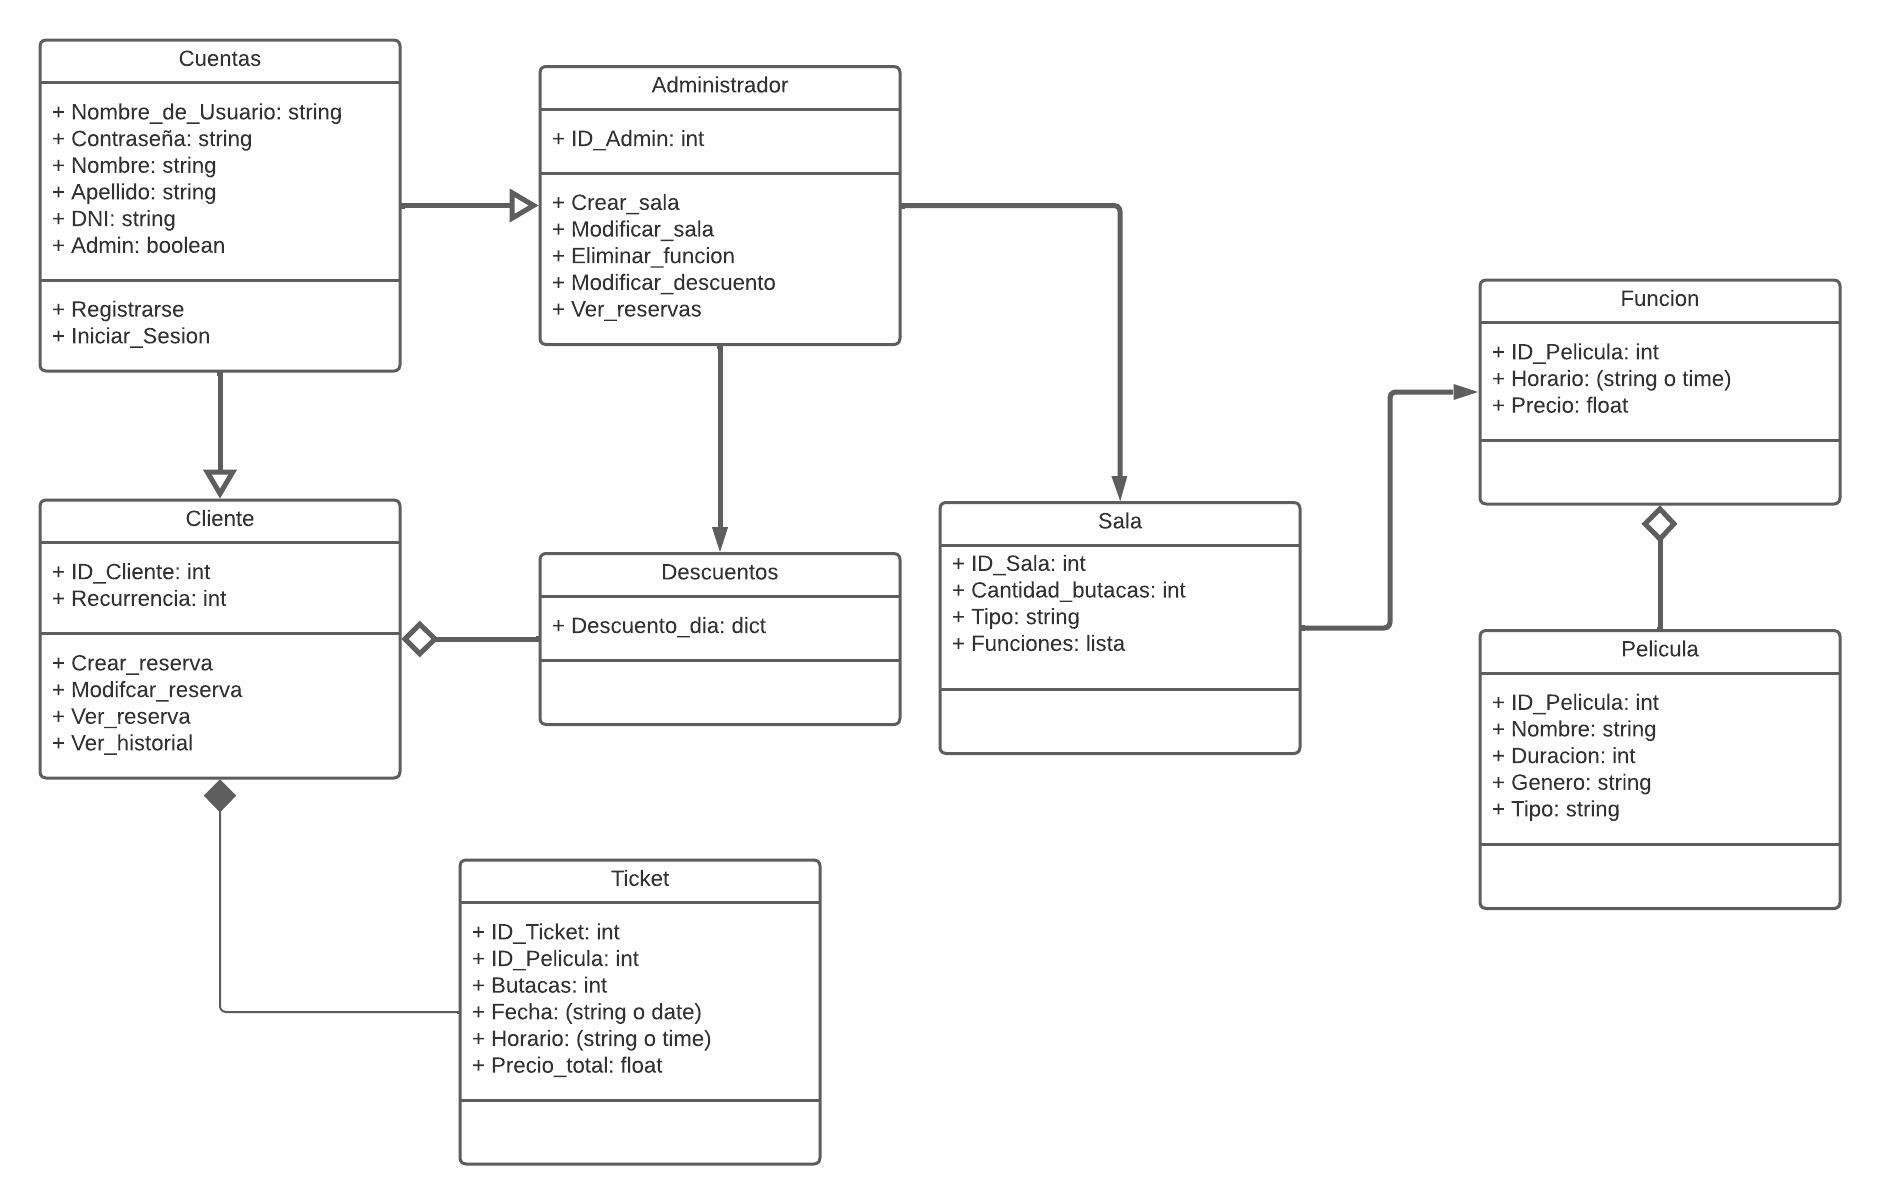
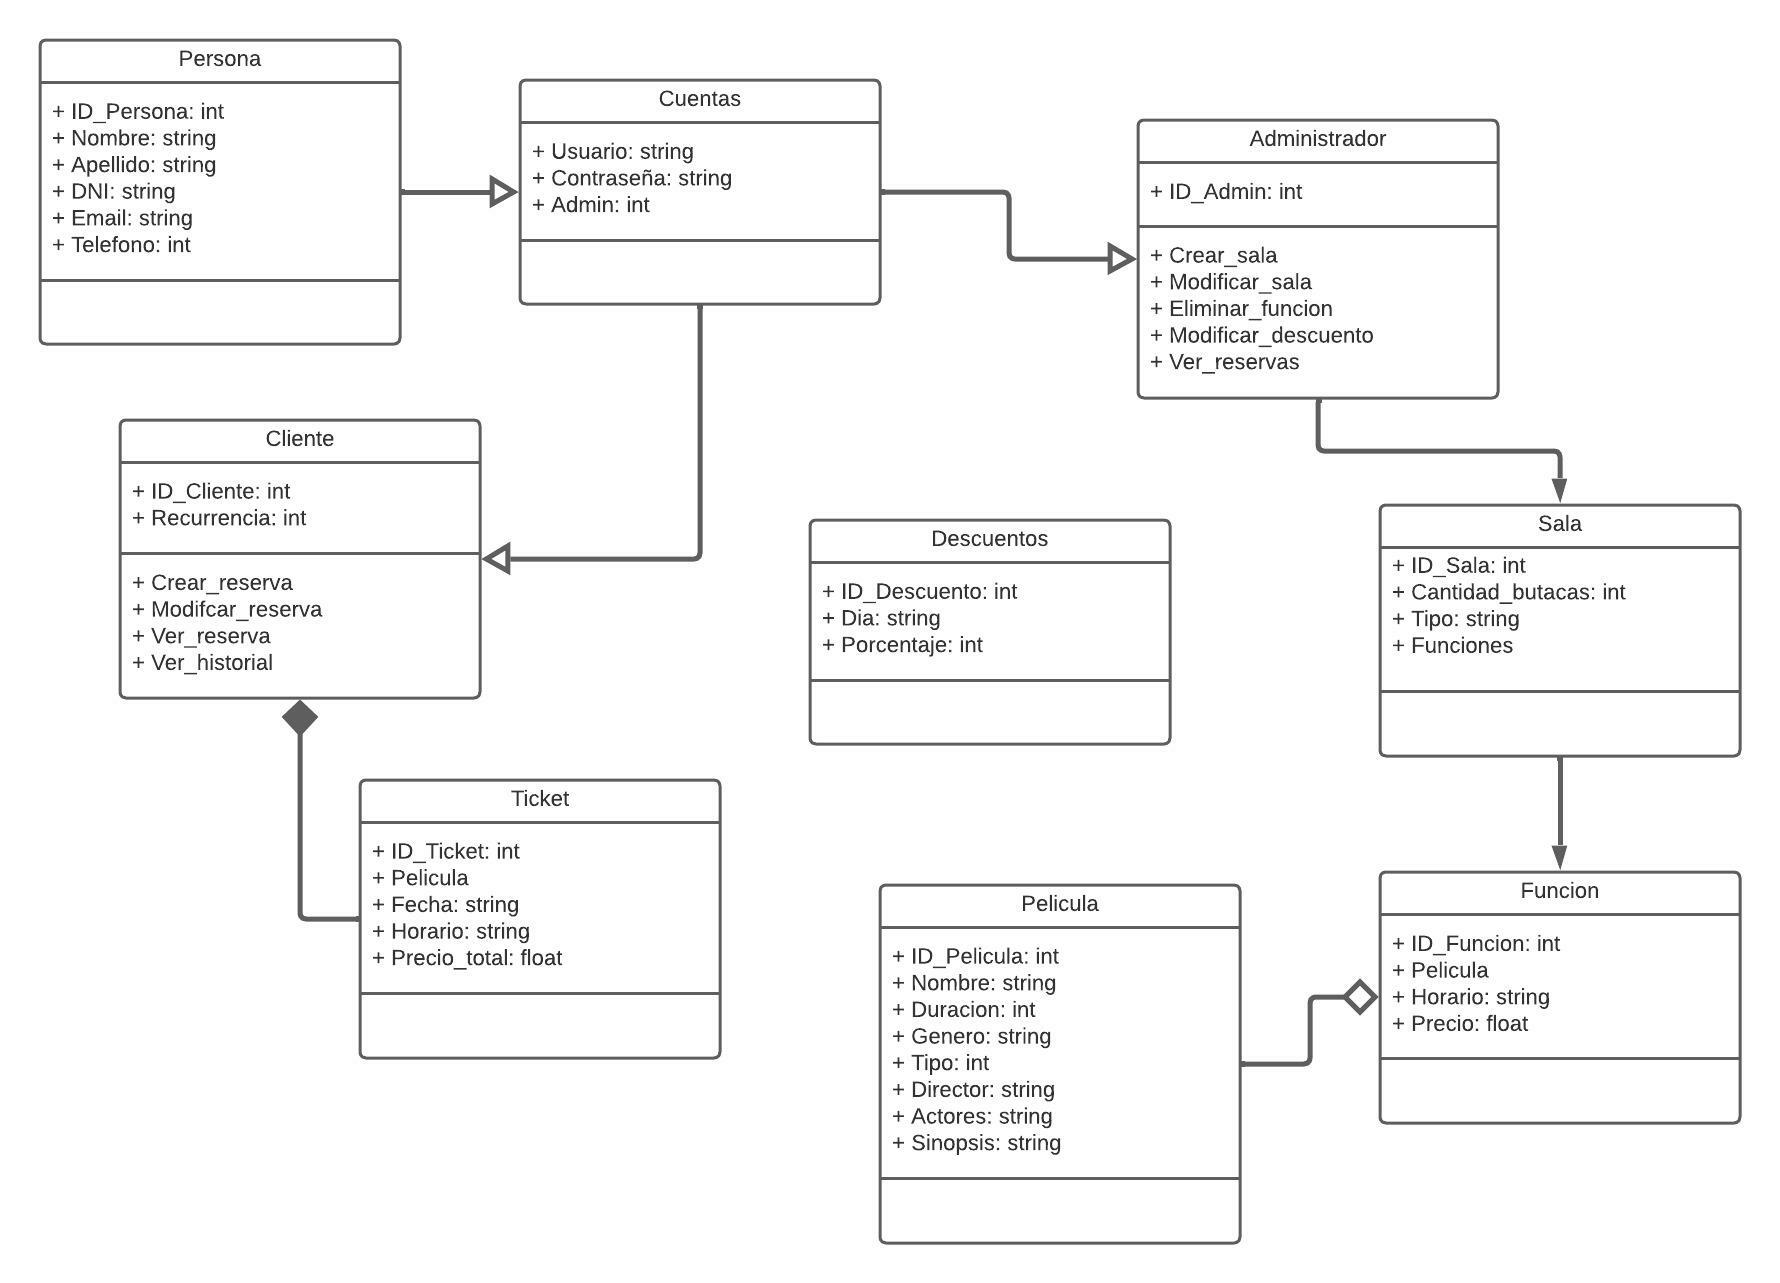
...

diff --git a/SQL/tables.py b/SQL/tables.py
@@ -1,0 +1,61 @@
+import databases as db
+
+cm = db.DataBase("cinemar.db")
+
+cm.create_table("personas",
+                "id_persona INTEGER PRIMARY KEY AUTOINCREMENT,"+
+                "nombre TEXT(20),"+
+                "apellido TEXT(20),"+
+                "dni TEXT(8),"+
+                "email TEXT(35),"+
+                "telefono INTEGER"
+                )
+
+cm.create_table("cuentas",
+                "id_cuenta INTEGER PRIMARY KEY AUTOINCREMENT,"+
+                "usuario TEXT(20),"+
+                "password TEXT(20),"+
+                "admin INTEGER(1) DEFAULT 1,"+
+                "FOREIGN KEY(id_cuenta) REFERENCES personas(id_persona)")
+
+cm.create_table("peliculas",
+                "id_pelicula INTEGER PRIMARY KEY AUTOINCREMENT,"+
+                "nombre TEXT(20),"+
+                "duracion INTEGER,"+
+                "genero TEXT(20),"+
+                "tipo INTEGER(1),"+ #2 (2D) O 3 (3D)
+                "director TEXT(50),"+
+                "actores TEXT(200),"+
+                "sinopsis TEXT(500)") 
+
+cm.create_table("funciones",
+                "id_funcion INTEGER PRIMARY KEY AUTOINCREMENT,"+
+                "butacas_libres INTEGER,"+
+                "pelicula INTEGER,"+
+                "horario TEXT(8),"+ #HH:MM:SS   
+                "precio REAL,"+
+                "FOREIGN KEY(pelicula) REFERENCES peliculas(id_pelicula)")
+
+cm.create_table("salas",
+                "id_sala INTEGER PRIMARY KEY AUTOINCREMENT,"+
+                "cant_butacas INTEGER,"+
+                "tipo INTEGER(1),"+ #2 (2D) O 3 (3D))
+                "funcion INTEGER,"+
+                "FOREIGN KEY(funcion) REFERENCES funciones(id_funcion)")
+
+cm.create_table("tickets",
+                "id_ticket INTEGER PRIMARY KEY AUTOINCREMENT,"+
+                "comprador INTEGER,"+
+                "pelicula INTEGER,"+
+                "cant_butacas INTEGER,"+
+                "fecha TEXT(10),"+  #YYYY-MM-DD
+                "horario TEXT(8),"+ #HH:MM:SS   
+                "precio REAL,"+
+                "FOREIGN KEY(pelicula) REFERENCES peliculas(id_pelicula),"+
+                "FOREIGN KEY(comprador) REFERENCES personas(id_persona)")
+
+cm.create_table("descuentos",
+                "id_descuento INTEGER PRIMARY KEY AUTOINCREMENT,"+
+                "dia TEXT(10),"+
+                "porcentaje INTEGER(3) DEFAULT 0")
+cm.close()

diff --git a/SQL/databases.py b/SQL/databases.py
@@ -1,0 +1,45 @@
+import sqlite3
+
+class DataBase:
+
+    def __init__(self, name):
+        self.name = name
+        self.connection = sqlite3.connect(self.name)
+        self.cursor = self.connection.cursor()
+    
+    def create_table(self, table_name, columns):
+        self.cursor.execute(f"CREATE TABLE IF NOT EXISTS {table_name} ({columns})")
+        self.connection.commit()
+    
+    def insert(self, table_name, columns, values):
+        self.cursor.execute(f"INSERT INTO {table_name} ({columns}) VALUES ({values})")
+        self.connection.commit()
+    
+    def select(self, table_name, columns, condition):
+        self.cursor.execute(f"SELECT {columns} FROM {table_name} WHERE {condition}")
+        return self.cursor.fetchall()
+    
+    def select_all(self, table_name, columns):
+        self.cursor.execute(f"SELECT {columns} FROM {table_name}")
+        return self.cursor.fetchall()
+    
+    def update(self, table_name, column, value, condition):
+        self.cursor.execute(f"UPDATE {table_name} SET {column} = {value} WHERE {condition}")
+        self.connection.commit()
+    
+    def delete(self, table_name, condition):
+        self.cursor.execute(f"DELETE FROM {table_name} WHERE {condition}")
+        self.connection.commit()
+    
+    def delete_table(self, table_name):
+        self.cursor.execute(f"DROP TABLE {table_name}")
+        self.connection.commit()
+    
+    def close(self):
+        self.connection.close()
+    
+    def __del__(self):
+        self.close()
+    
+    def __str__(self):
+        return f"DataBase({self.name})"

diff --git a/Informacion/Instrucciones para trabajar en GitHub (Repositorio).md b/Informacion/Instrucciones para trabajar en GitHub (Repositorio).md
@@ -10,7 +10,7 @@
 
 4. Se va a abrir la consola de Windows en dicha carpeta. Escribir en ella el siguiente comando:
 ```
-   git clone https://github.com/Mati2173/Cinemar--1000-Programadores.git
+git clone https://github.com/Mati2173/Cinemar--1000-Programadores.git
 ```
 > Este comando copia todos los archivos del respositorio de GitHub en la carpeta seleccionada.
 
@@ -28,17 +28,17 @@
 
 4. Una vez realizados los cambios, hay que subirlos a GitHub con los siguientes comandos (en el mismo orden):
 ```
-   git add .
+git add .
 ```
 > Este comando agrega **todos** los nuevos archivos o los cambios hechos en los mismos.
 
  ```
-   git commit -m "Mensaje"
+git commit -m "Mensaje"
  ```
 > En "Mensaje" detallá el cambio que hiciste en pocas palabras. Este comando confirma los cambios.
 
 ```
-   git push
+git push
 ```
 > Este comando sube todos los cambios a GitHub.
 
@@ -53,8 +53,25 @@
 
 3. Escribir el siguiente comando:
 ```
-   git pull
+git pull
 ```
 > Este comando actualiza el repositorio local con los cambios realizados por otro usuario.
 
 4. El respositorio actualizado con los últimos cambios ya está en tu computadora. Ya podés seguir trabajando con el proyecto. Luego de realizar los cambios necesarios, subilos a GitHub siguiendo las instrucciones detalladas en **"Pasos para subir los cambios en GitHub"**.
+
+- - - - - -
+### Pasos para eliminar el ultimo commit
+
+1. Abrir la carpeta donde se encuentran todos los archivos del proyecto con VSC.
+
+2. Abrir una nueva terminal en dicha carpeta.
+
+3. Escribir los siguientes comandos:
+```
+git reset --hard HEAD^
+```
+
+```
+git push origin -f
+```
+> Este comando elimina el ultimo commit realizado, tanto en GitHub como en tu PC.

diff --git a/README.md b/README.md
@@ -1,3 +1,5 @@
-Este es el README.md
+# **Sistema de Gestion - Cinemar**
 
-Prueba inicial para proyecto 'Cinemar' (Proyecto de 1000 Programadores)
+Colaboradores:
+    . Cardozo, Macarena Soledad
+    . Gómez, Matías Agustín
